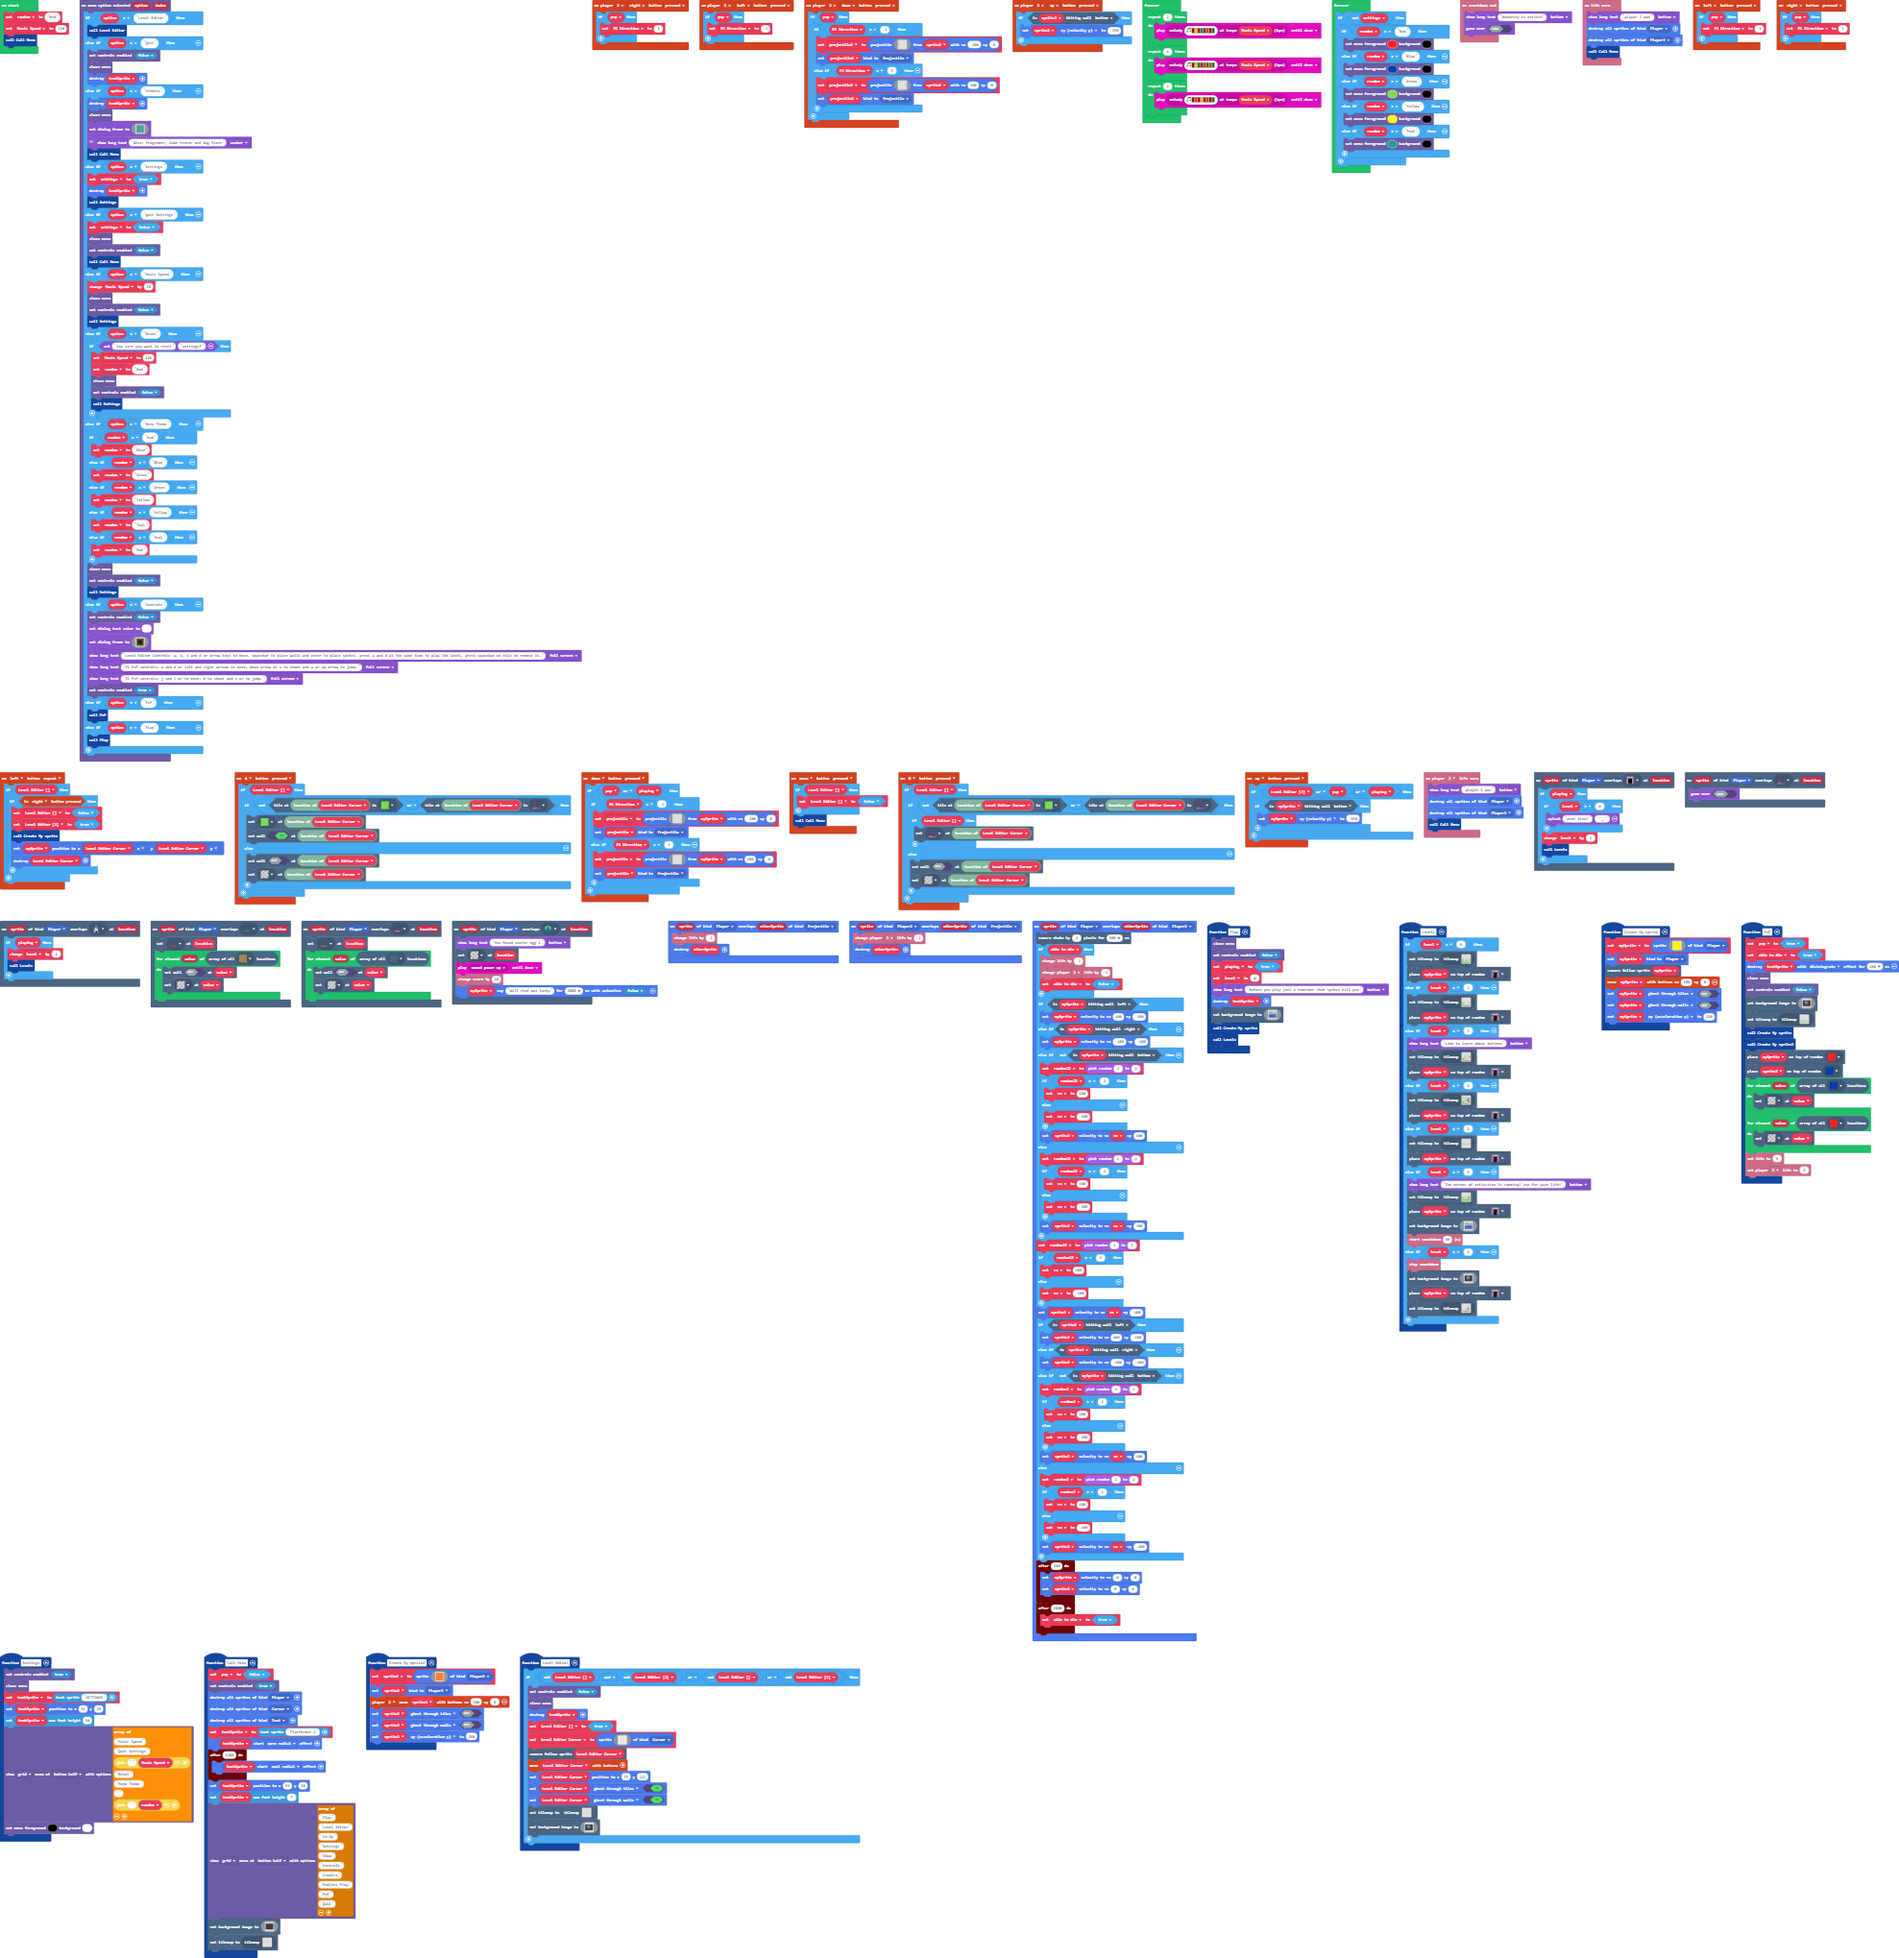
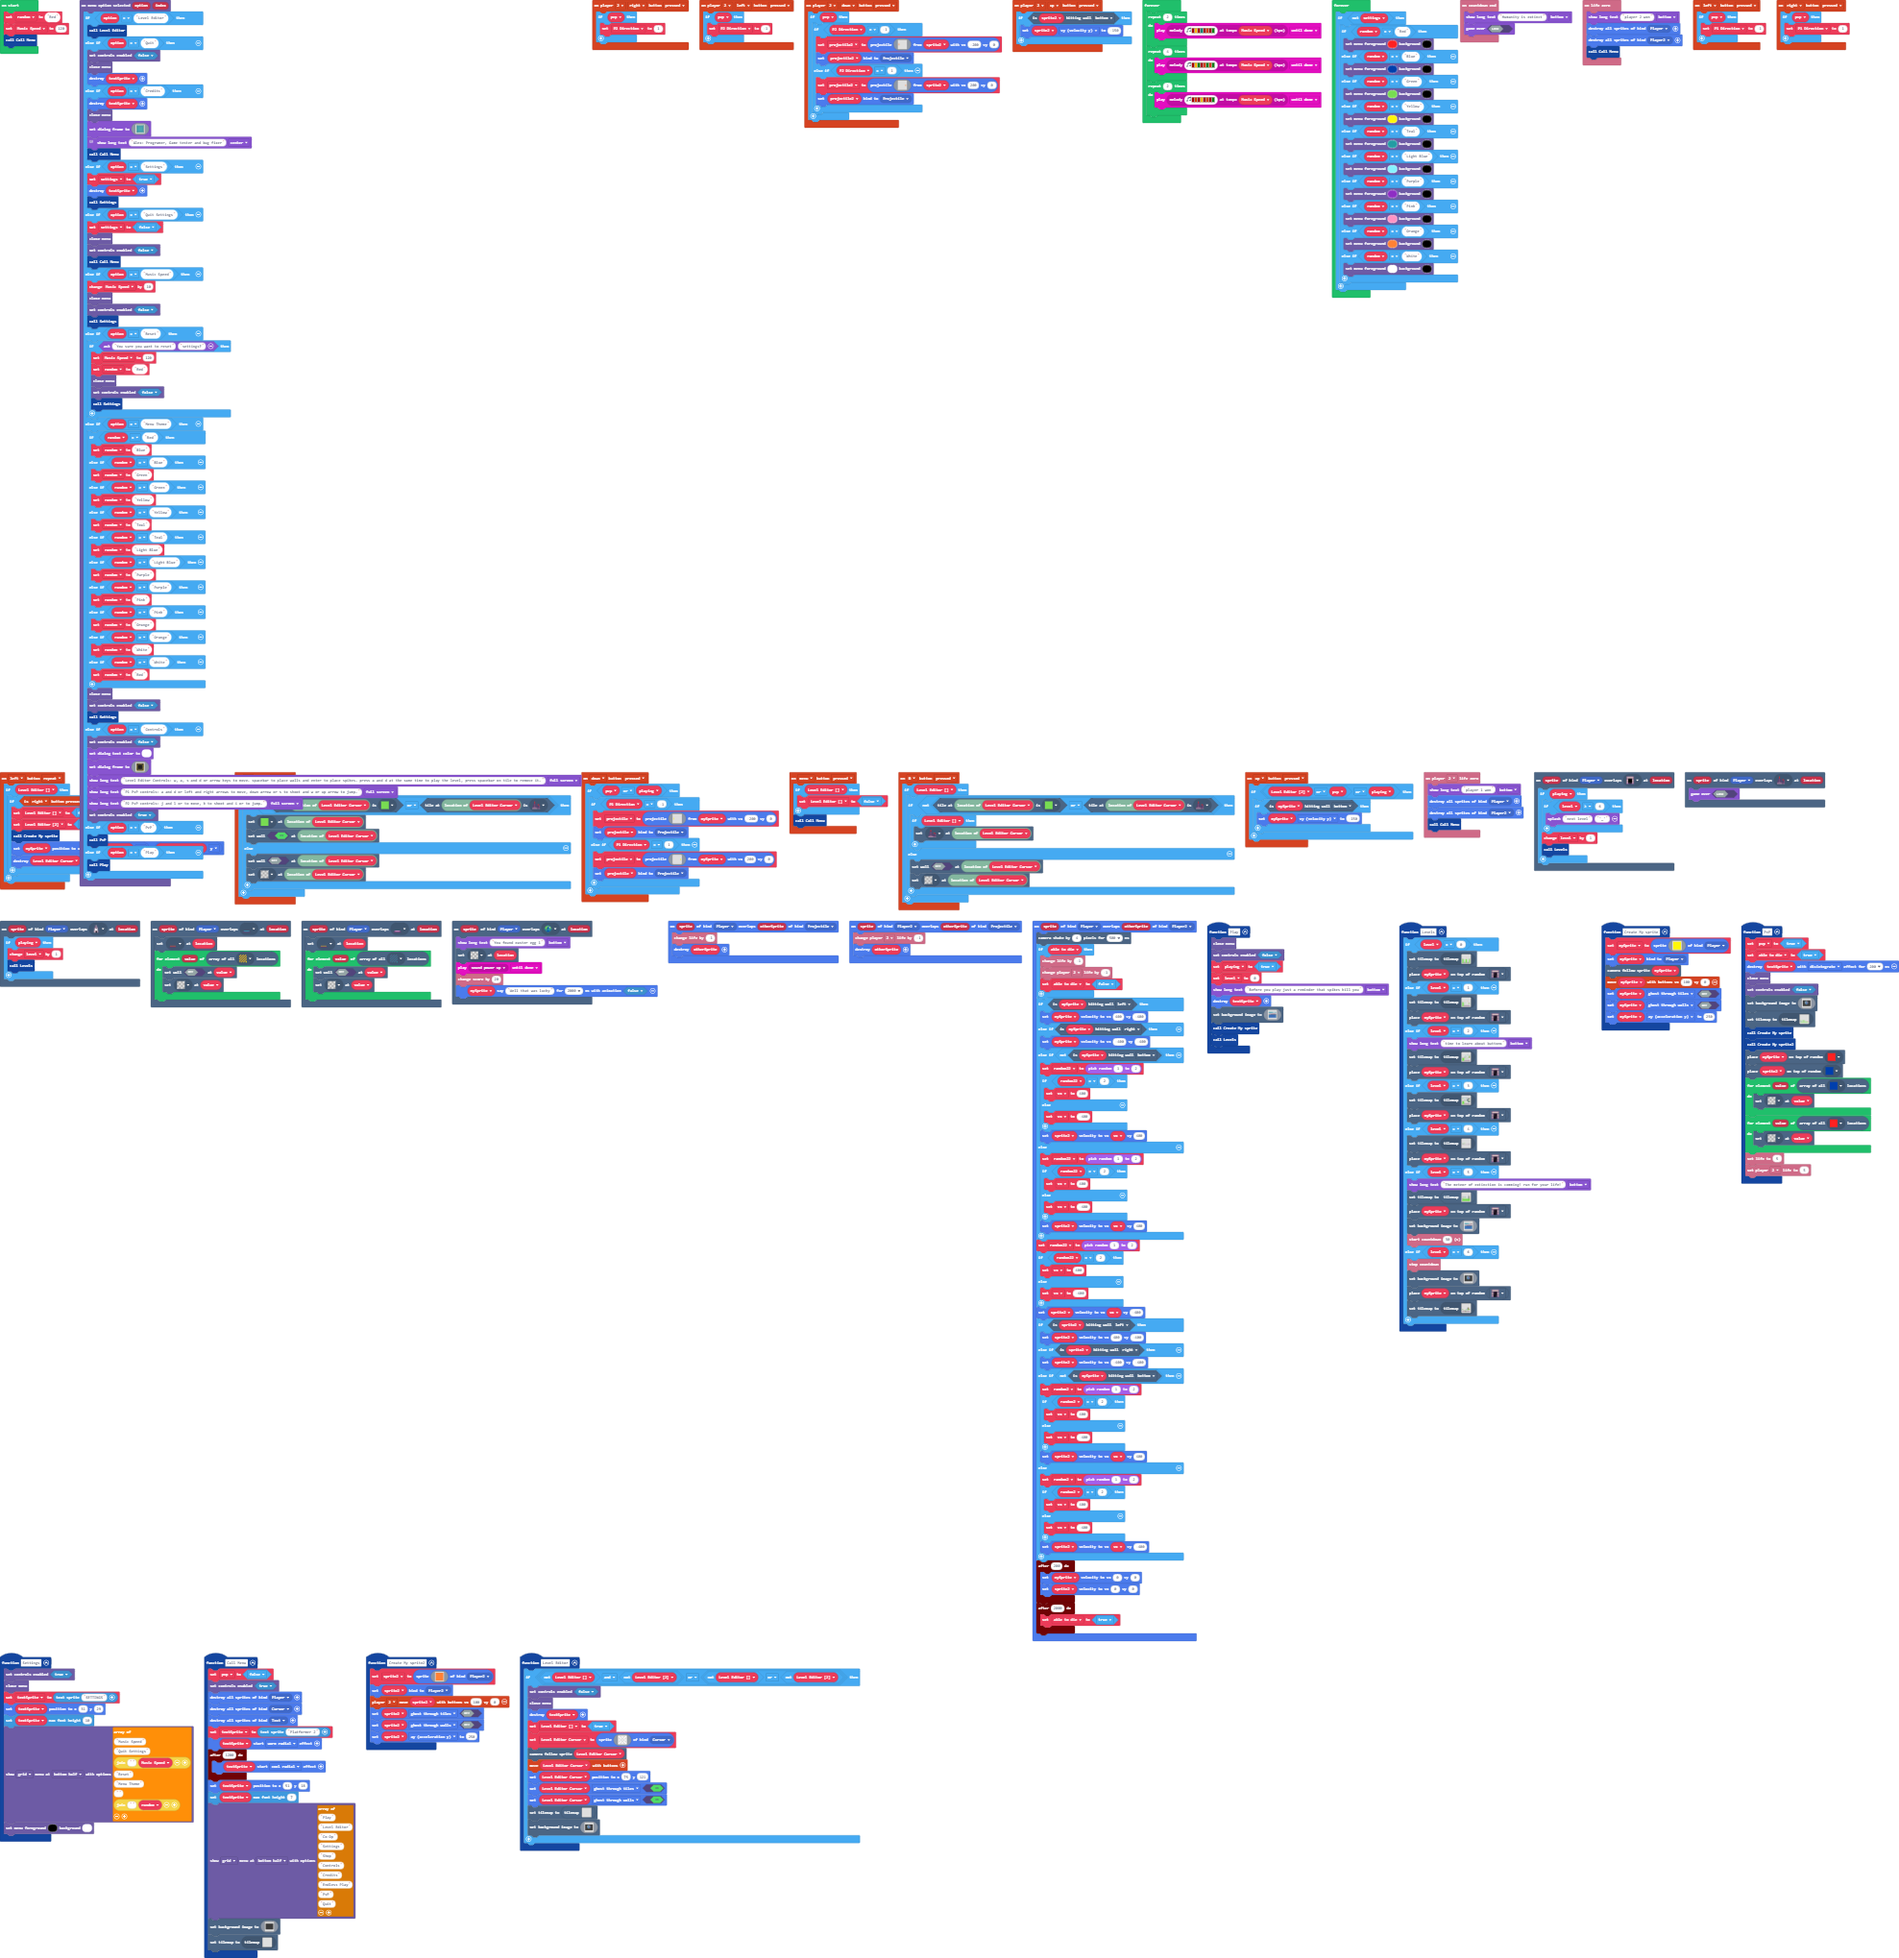
Update main.blocks, main.ts

Changed region(s): [[0.0309, 0.2472, 0.3085, 0.4635], [0.6788, 0.0618, 0.7714, 0.1545]]

diff --git a/main.ts b/main.ts
@@ -1151,6 +1151,16 @@ blockMenu.onMenuOptionSelected(function (option, index) {
         } else if (random == "Yellow") {
             random = "Teal"
         } else if (random == "Teal") {
+            random = "Light Blue"
+        } else if (random == "Light Blue") {
+            random = "Purple"
+        } else if (random == "Purple") {
+            random = "Pink"
+        } else if (random == "Pink") {
+            random = "Orange"
+        } else if (random == "Orange") {
+            random = "White"
+        } else if (random == "White") {
             random = "Red"
         }
         blockMenu.closeMenu()
@@ -1394,6 +1404,16 @@ forever(function () {
             blockMenu.setColors(5, 15)
         } else if (random == "Teal") {
             blockMenu.setColors(6, 15)
+        } else if (random == "Light Blue") {
+            blockMenu.setColors(9, 15)
+        } else if (random == "Purple") {
+            blockMenu.setColors(10, 15)
+        } else if (random == "Pink") {
+            blockMenu.setColors(3, 15)
+        } else if (random == "Orange") {
+            blockMenu.setColors(4, 15)
+        } else if (random == "White") {
+            blockMenu.setColors(1, 15)
         }
     }
 })
